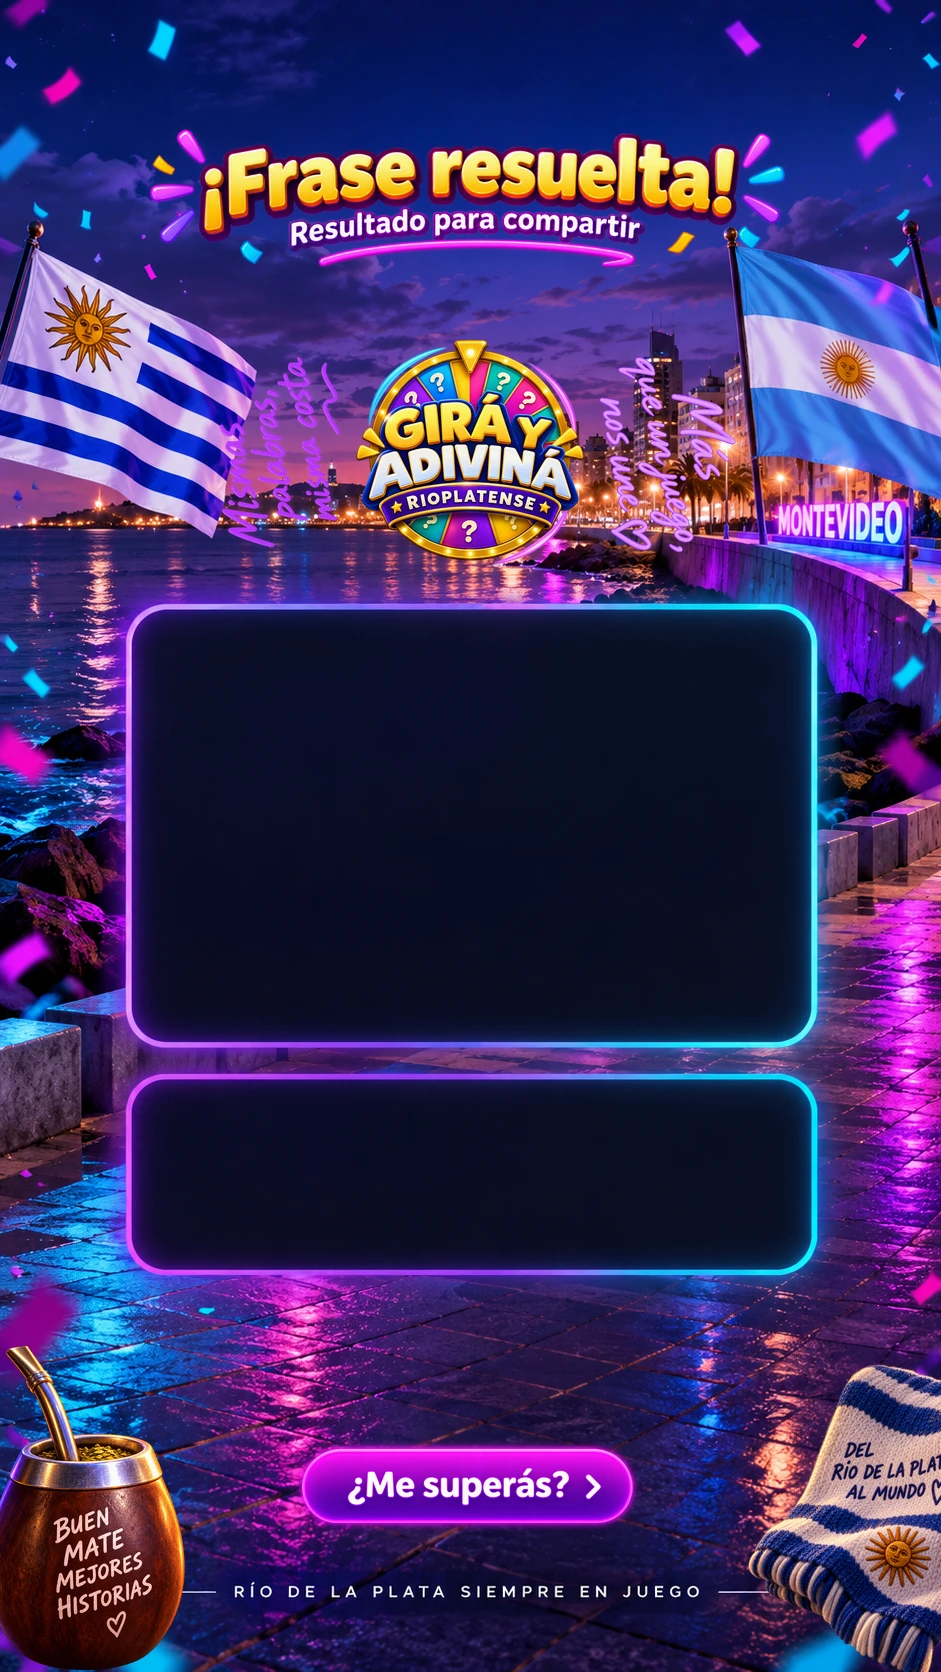
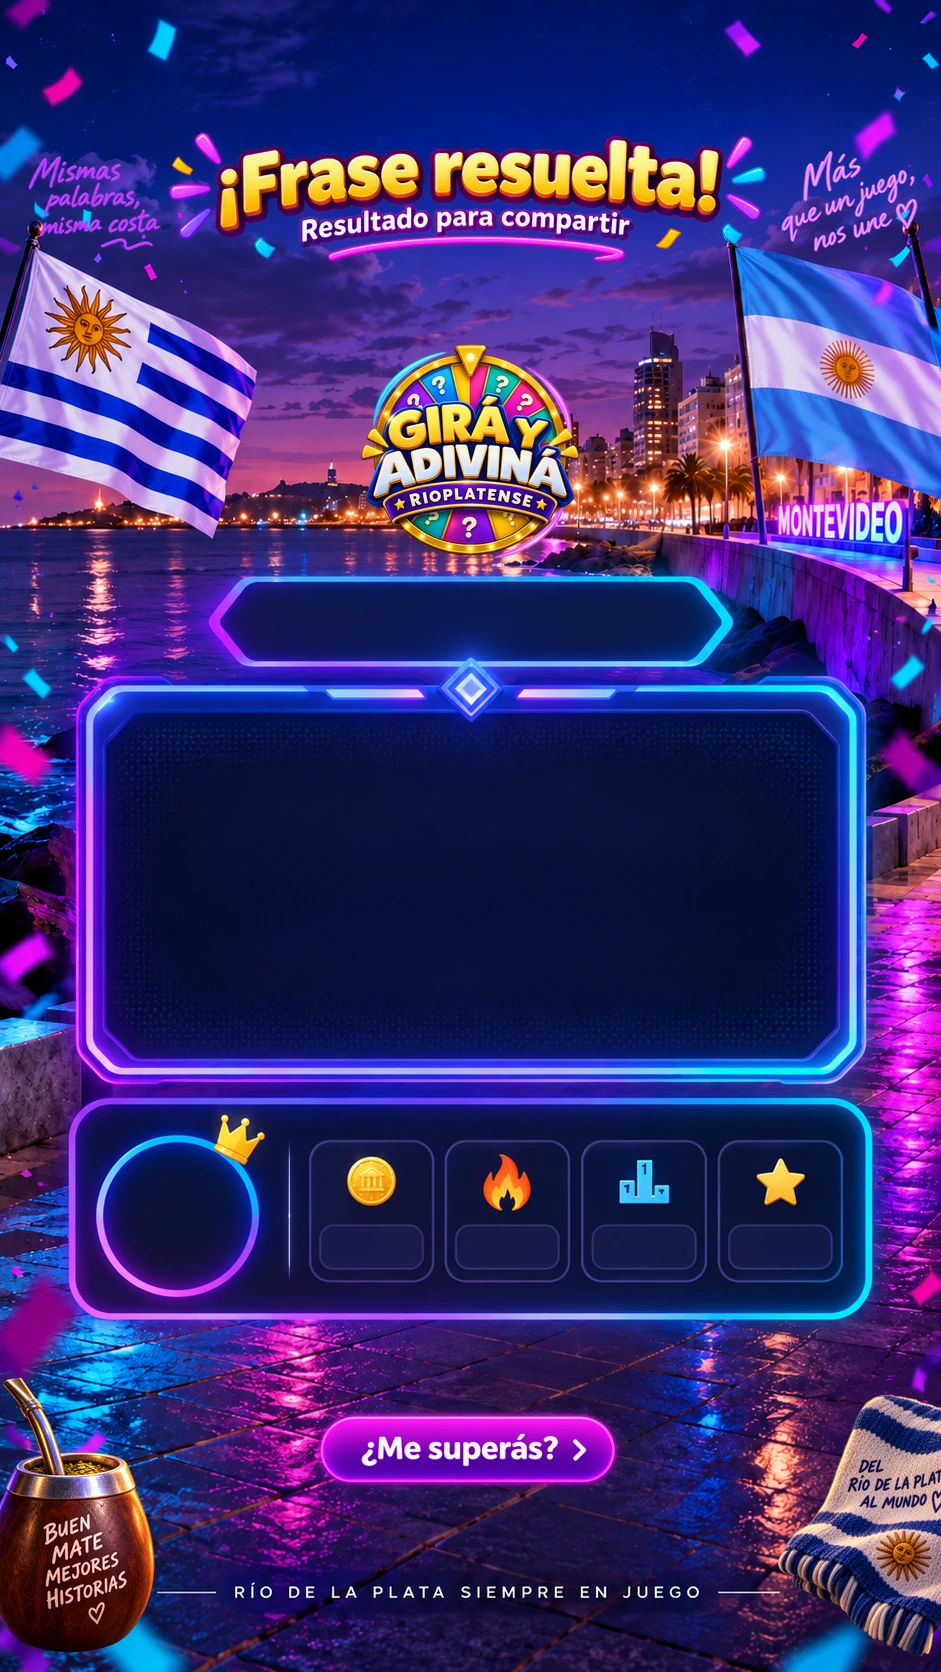
Rediseña la plantilla de compartir con el nuevo layout subido (#119)
Mueve las dos frases decorativas arriba, a los costados de "¡Frase
resuelta!" (en vez de junto al logo). Usa la nueva plantilla de fondo
con el widget de avatar + stats (monedas, racha, destinos, logros) y
la píldora de categoría, y actualiza el canvas para dibujar en esos
espacios nuevos.

Claude-Session: https://claude.ai/code/session_016Hpyg3vebFKwHSnTQ2rALx

diff --git a/index.html b/index.html
@@ -4412,36 +4412,23 @@ async function generarCanvasCompartir(){
   const bg=await csCargarImg("assets/compartir/plantilla-resultado.webp");
   cx.drawImage(bg,0,0,941,1672);
   try{await document.fonts.load("700 32px 'Archivo Black'");await document.fonts.load("700 22px Outfit");}catch(e){}
-  const px1=185,py1=655,pw1=680;
-  let curY=py1;
+  if(S&&S.catRaw){
+    cx.fillStyle="#37D6C0";cx.font="700 20px Outfit,sans-serif";cx.textAlign="center";cx.textBaseline="middle";
+    cx.fillText((S.catRaw||"").toUpperCase(),470,617);
+  }
+  const px1=115,py1=730,pw1=710;
+  if(S&&S.frase){csDibujarFrase(cx,mask(),px1,py1,pw1);}
   if(perfil.avatar){
     try{
       const av=await csCargarImg("assets/avatars/"+perfil.avatar+".webp");
-      const r=38,acx=px1+r,acy=py1+r;
+      const r=68,acx=175,acy=1197;
       cx.save();cx.beginPath();cx.arc(acx,acy,r,0,Math.PI*2);cx.clip();
       cx.drawImage(av,acx-r,acy-r,r*2,r*2);cx.restore();
-      cx.strokeStyle="#F5B301";cx.lineWidth=3;cx.beginPath();cx.arc(acx,acy,r,0,Math.PI*2);cx.stroke();
     }catch(e){}
   }
-  cx.fillStyle="#F6EFE2";cx.font="700 30px Outfit,sans-serif";cx.textAlign="left";cx.textBaseline="middle";
-  cx.fillText(perfil.nombre||"Vos",px1+90,py1+38);
-  curY=py1+96;
-  if(S&&S.catRaw){
-    cx.fillStyle="#37D6C0";cx.font="700 19px Outfit,sans-serif";cx.textAlign="center";
-    cx.fillText((S.catRaw||"").toUpperCase(),px1+pw1/2,curY);
-    curY+=34;
-  }
-  if(S&&S.frase){csDibujarFrase(cx,mask(),px1,curY,pw1);}
-  const px2=185,py2=1130,pw2=610;
-  const stats=[["🪙",meta.monedas+" monedas"],["🔥",(meta.mejorRachaVictorias||0)+" racha"],["🗺",ganados.size+"/"+MUNDO.length+" destinos"]];
-  const colW=pw2/stats.length;
-  stats.forEach((s,i)=>{
-    const scx=px2+colW*i+colW/2;
-    cx.font="34px sans-serif";cx.textAlign="center";cx.textBaseline="alphabetic";
-    cx.fillText(s[0],scx,py2+55);
-    cx.fillStyle="#F6EFE2";cx.font="700 18px Outfit,sans-serif";
-    cx.fillText(s[1],scx,py2+90);
-  });
+  const stats=[[370,meta.monedas],[505,(meta.mejorRachaVictorias||0)],[645,ganados.size+"/"+MUNDO.length],[780,logrosGanados.size]];
+  cx.fillStyle="#F6EFE2";cx.font="700 19px Outfit,sans-serif";cx.textAlign="center";cx.textBaseline="middle";
+  stats.forEach(([scx,val])=>cx.fillText(String(val),scx,1228));
   return cv;
 }
 $("fCompartir").onclick=async()=>{
